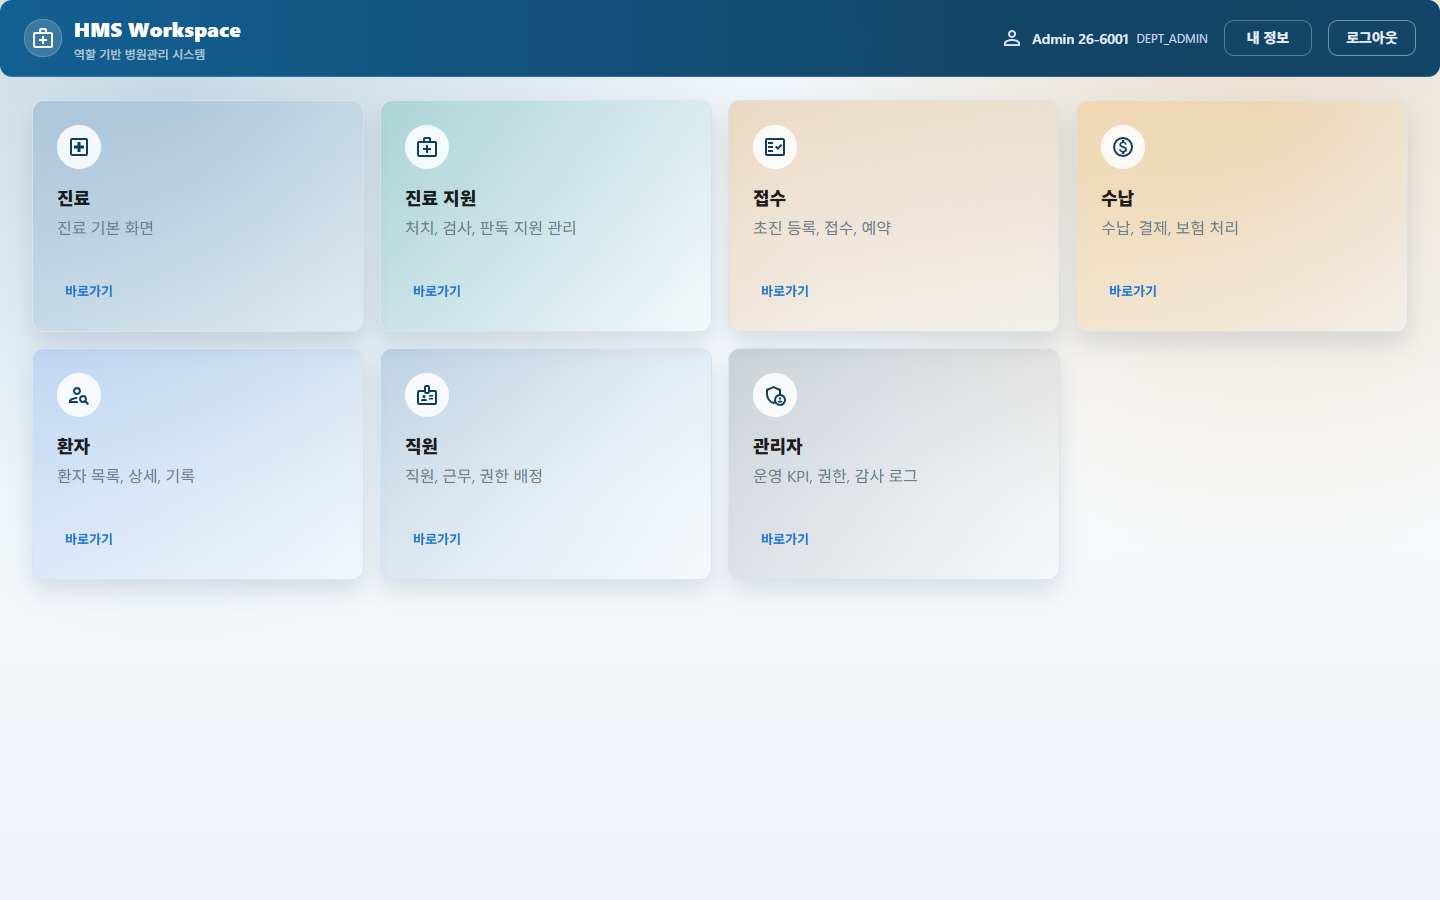
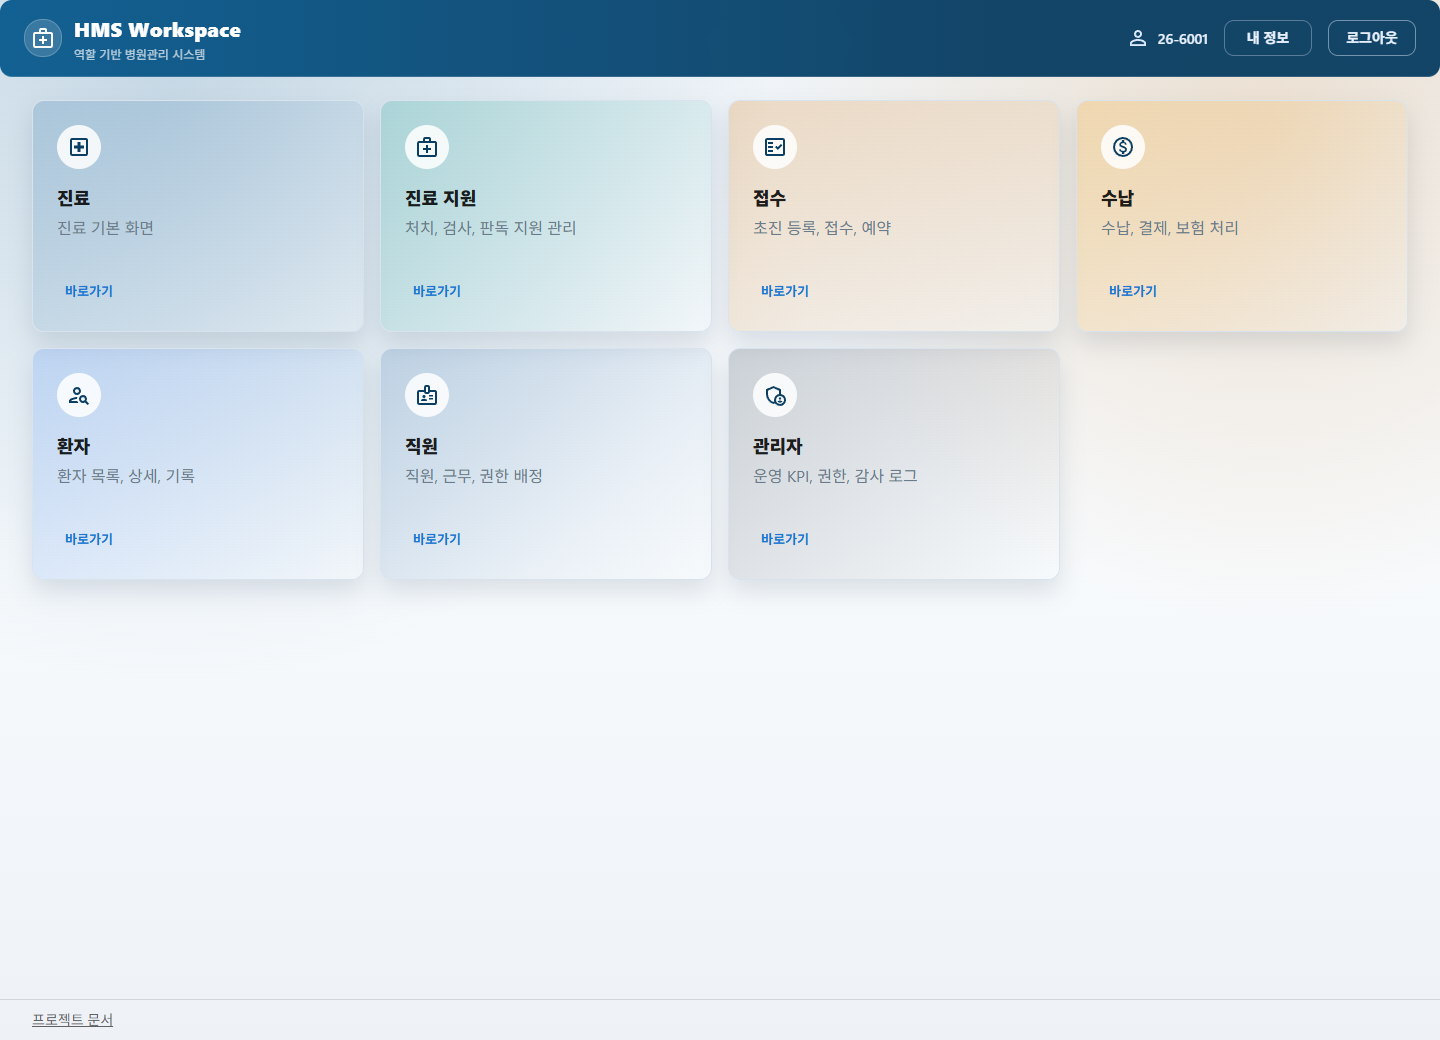
Document the verified Docker demo and cash workflow

diff --git a/README.md b/README.md
@@ -112,14 +112,39 @@ docker compose logs --tail 30 oracle-restore
 
 ## 실행 확인
 
-- `docker compose up --build -d`로 서비스 이미지를 빌드하고 전체 컨테이너를 시작했습니다.
-- 빈 Oracle 볼륨에서 스키마 복원, 재실행 시 복원 생략과 기존 스키마 보존을 확인했습니다.
-- 데모 계정의 화면 로그인과 환자·접수·직원·진료·수납 API 응답을 확인했습니다. 진료지원 서비스의 Swagger UI도 응답했습니다.
-- MinIO의 세 버킷 생성과 파일 쓰기·읽기, Kafka의 네 소비자 그룹 연결을 확인했습니다.
+새 포트폴리오 저장소를 클론해 Docker용 이미지 10종을 빌드했습니다. 첫 시도에 발생한 Gradle 의존성 조회 오류와 Docker 엔진 연결 문제는 인증·직원 서비스의 단독 빌드와 Docker Desktop 재시작 후 재검증했습니다. 포트 충돌을 피하기 위해 로컬 포트와 이미지 접두사를 바꿔 사용했습니다.
 
-- 빈 Oracle 볼륨을 복원하면 데모 진료과와 의사가 자동으로 추가됩니다. SQL 재실행 시 추가된 행은 없었으며, 예약 생성과 외래 접수 후 두 API에서 의사 코드를 다시 조회했습니다.
+- 빈 Oracle 볼륨에서 공개용 덤프를 복원했고, Oracle 복원과 MinIO 초기화가 종료 코드 0으로 완료됐습니다.
+- 새 이미지로 서비스 12개를 띄운 뒤 브라우저에서 데모 로그인과 푸터의 **프로젝트 문서** 링크가 이 README로 연결되는 것을 확인했습니다.
+- 가상 환자로 예약 `10005` → 외래 접수 `10006` → 진료 `21` 및 처치 오더 `41` → 진료 완료 → Kafka 청구 `10004` → 현금 수납을 API로 검증했습니다. Oracle에 15,000원 현금 수납 1건이 저장됐으며, 청구 상태는 `PAID`, 잔액은 0원이었습니다.
 
-- 공개용 덤프를 빈 Oracle 볼륨에 복원한 뒤 데모 로그인, 예약, 외래 접수, 진료·오더, Kafka 청구 생성과 현금 수납을 확인했습니다. 청구 잔액은 0원이었습니다.
+### 업무 화면
+
+위 대시보드와 아래 화면은 포트폴리오 환경에서 직접 캡처했습니다. 화면에는 가상 환자와 데모 계정 정보만 표시됩니다.
+
+<details>
+<summary>예약 상세</summary>
+
+![가상 환자의 예약 상세와 예약 완료 상태](docs/images/portfolio-reservation.png)
+
+</details>
+
+<details>
+<summary>외래 접수와 진료 상태 이력</summary>
+
+![외래 접수 상세에서 확인한 대기, 진료 중, 진료 완료 이력](docs/images/portfolio-reception.png)
+
+</details>
+
+<details>
+<summary>현금 수납 영수증</summary>
+
+![현금 수납 15,000원과 잔액 0원이 표시된 영수증](docs/images/portfolio-cash-receipt.png)
+
+</details>
+
+예약 상세의 일부 확장 조회는 화면에 미지원으로 표시됩니다. 진료·오더는 API와 접수 상태 이력으로 확인했으며, 진료 차트 화면에서는 해당 레코드가 표시되지 않아 별도 캡처를 넣지 않았습니다.
+
 
 ## 카카오페이 테스트 결제
 
